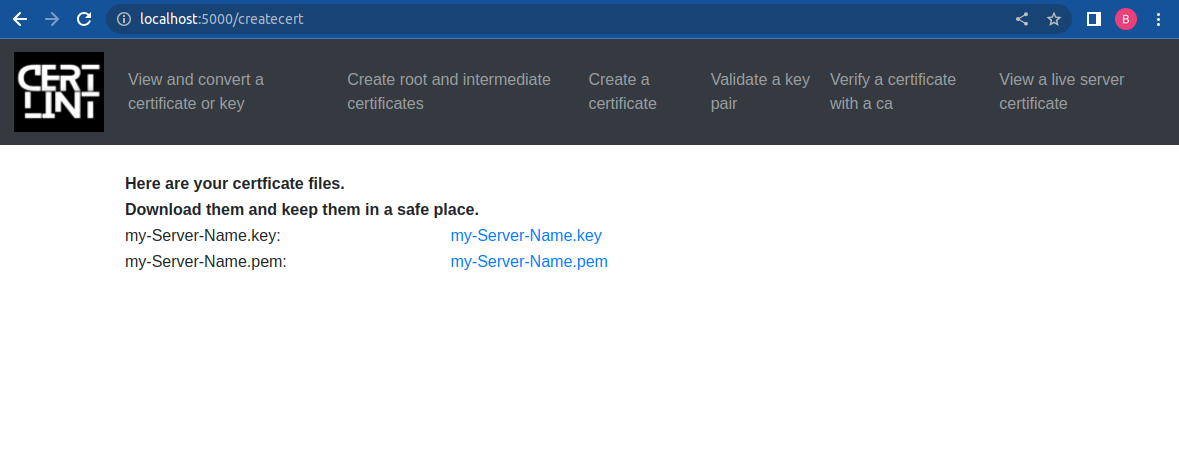
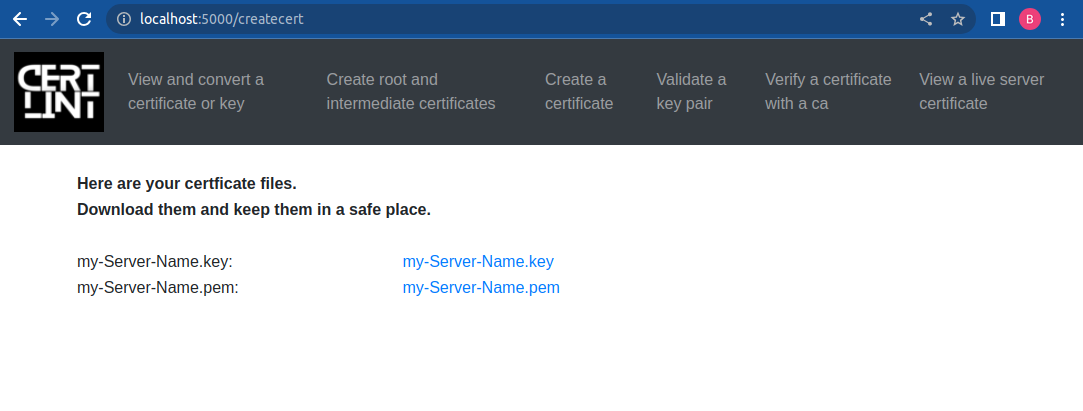
version 1.0.5 which allows the user to create a signed cert

Changed region(s): [[0.0, 0.0, 1.0, 0.3504], [0.0609, 0.3796, 0.518, 0.7299], [0.2742, 0.146, 0.9751, 0.2628]]

diff --git a/website/templates/getcertdetails.html b/website/templates/getcertdetails.html
@@ -60,14 +60,15 @@
       <br><br><br>
       <label for="root_ca_pem">Select the Root (pem) file that signed your Intermediate CA:</label><br>
       <input type="file" id="root_ca_pem" name="root_ca_pem" />
+
+      <br><br><br><br><br><br><br><br>
+      <p>After you have provided details for your certificate and selected your CAs, click:</p>
+      <input type = "submit" value="Create My Certificate">
+
     </div>
   </div>
 
-  <div class="row justify-content-end">
-    <div class="col-3">
-      <input type = "submit" value="Create My Certificate">
-    </div>
-  </div>
+
 </div>
 </form>
 </body>

diff --git a/website/templates/certcreated.html b/website/templates/certcreated.html
@@ -6,6 +6,7 @@
 			<tr><td><br/></td></tr>
 			<tr><th>Here are your certficate files.</th></tr>
 			<tr><th>Download them and keep them in a safe place.</th></tr>
+			<tr><td><br/></td></tr>
 		</tbody>
 	</table>
 	{% for dict in links1 %}

diff --git a/website/views.py b/website/views.py
@@ -56,16 +56,25 @@ def createcert():
         cert_dns = request.form.get("cert_dns")
 
         intermediate_ca_key = request.files['intermediate_ca_key']
+        if not intermediate_ca_key:
+            return render_template("getcertdetails.html")
         intermediate_ca_key.save("website/" + getuploadfolder() + session['mysessionid'] + "/" + intermediate_ca_key.filename)
-        intermediate_ca_pem.close
+        intermediate_ca_key.close
 
         intermediate_ca_pem = request.files['intermediate_ca_pem']
+        if not intermediate_ca_pem:
+            return render_template("getcertdetails.html")
         intermediate_ca_pem.save("website/" + getuploadfolder() + session['mysessionid'] + "/" + intermediate_ca_pem.filename)
         intermediate_ca_pem.close
 
         root_ca_pem = request.files['root_ca_pem']
+        if not root_ca_pem:
+            return render_template("getcertdetails.html")
         root_ca_pem.save("website/" + getuploadfolder() + session['mysessionid'] + "/" + root_ca_pem.filename)
         root_ca_pem.close
+
+
+# I should add a FLASH message here if the user doesn't select any CA files... right now it just reposts.
 
         try:
             create_certificate("website/" + getuploadfolder() + session['mysessionid'] + "/" + cert_file_name, cert_c, cert_st, cert_l, cert_o, cert_ou, cert_cn, cert_ip, cert_dns, "website/" + getuploadfolder() + session['mysessionid'] + "/" + intermediate_ca_pem.filename, "website/" + getuploadfolder() + session['mysessionid'] + "/" + intermediate_ca_key.filename,"website/" + getuploadfolder() + session['mysessionid'] + "/" + root_ca_pem.filename)

diff --git a/README.md b/README.md
@@ -50,28 +50,28 @@
 
 <!-- ABOUT THE PROJECT -->
 ## About The Project
-CertLint is a project I built to improve/practice my skills in scripting, CI/CD, Docker and Kubernetes.  **BY NO MEANS** am I claiming/attempting or wanting to be a front-end developer. You can use the online version to "play with" or you can use it "offiline" to convert/validate your own certificates and keys by running it in a Docker container.
+CertLint is a project I built to improve/practice my skills in scripting, CI/CD, Docker and Kubernetes.  **BY NO MEANS** am I claiming/attempting or wanting to be a front-end developer. You can use it "offiline" to convert/validate your own certificates and keys by running it in a Docker container.
+
+I WOULD NOT recommend running this as a web service outside of your localhost.
+1.  It uses the built in Flask web server which shouldn't be used for prod.
+2.  It does a lot of file handling of certs and keys... and you should never upload your key to a web server
+3.  It does not sanitize user input so the risk of being hacked is high.
+4.  Ironically, I didn't run it with https (but you could use it to create a key/cert for itself.  :-) 
 
 [![product-screenshot1][product-screenshot1]](https://github.com/BobBlank12/certlint/)
-
 <br></br>
-
 [![product-screenshot2][product-screenshot2]](https://github.com/BobBlank12/certlint/)
-
 <br></br>
-
 [![product-screenshot3][product-screenshot3]](https://github.com/BobBlank12/certlint/)
-
 <br></br>
-
 [![product-screenshot4][product-screenshot4]](https://github.com/BobBlank12/certlint/)
-
 <br></br>
-
 [![product-screenshot5][product-screenshot5]](https://github.com/BobBlank12/certlint/)
-
 <br></br>
-
+[![product-screenshot6][product-screenshot6]](https://github.com/BobBlank12/certlint/)
+<br></br>
+[![product-screenshot7][product-screenshot7]](https://github.com/BobBlank12/certlint/)
+<br></br>
 
 <p align="right">(<a href="#readme-top">back to top</a>)</br></p>
 
@@ -133,7 +133,7 @@ I may put some examples here... but I hope the tool is self-explanatory.
 
 - [ ] Decide if I will actually host this online (e.g. GKE)  for people to use or just support running it in containers locally.
 - [x] Allow users to create a new Root and Intermediate CA to sign new certificates
-    - [ ] Create/Sign certificates with the CAs from above
+    - [x] Create/Sign certificates with the CAs from above
 - [ ] Validate a private/public key are a valid pair
 - [ ] Convert keys to different formats (pkcs1-pkcs8-encrypted/unencrypted)
 - [ ] Given a CA chain, validate a certificate can be verified using that chain
@@ -194,6 +194,8 @@ Distributed under the MIT License. See [LICENSE](https://github.com/BobBlank12/c
 [product-screenshot3]: images/screenshot3.png
 [product-screenshot4]: images/screenshot4.png
 [product-screenshot5]: images/screenshot5.png
+[product-screenshot6]: images/screenshot6.png
+[product-screenshot7]: images/screenshot7.png
 [Flask]: https://img.shields.io/badge/-Flask-000000?style=for-the-badge&logo=flask&logoColor=white
 [Flask-url]: https://flask.palletsprojects.com/
 [Python]: https://img.shields.io/badge/Python-3776AB?style=for-the-badge&logo=python&logoColor=white
